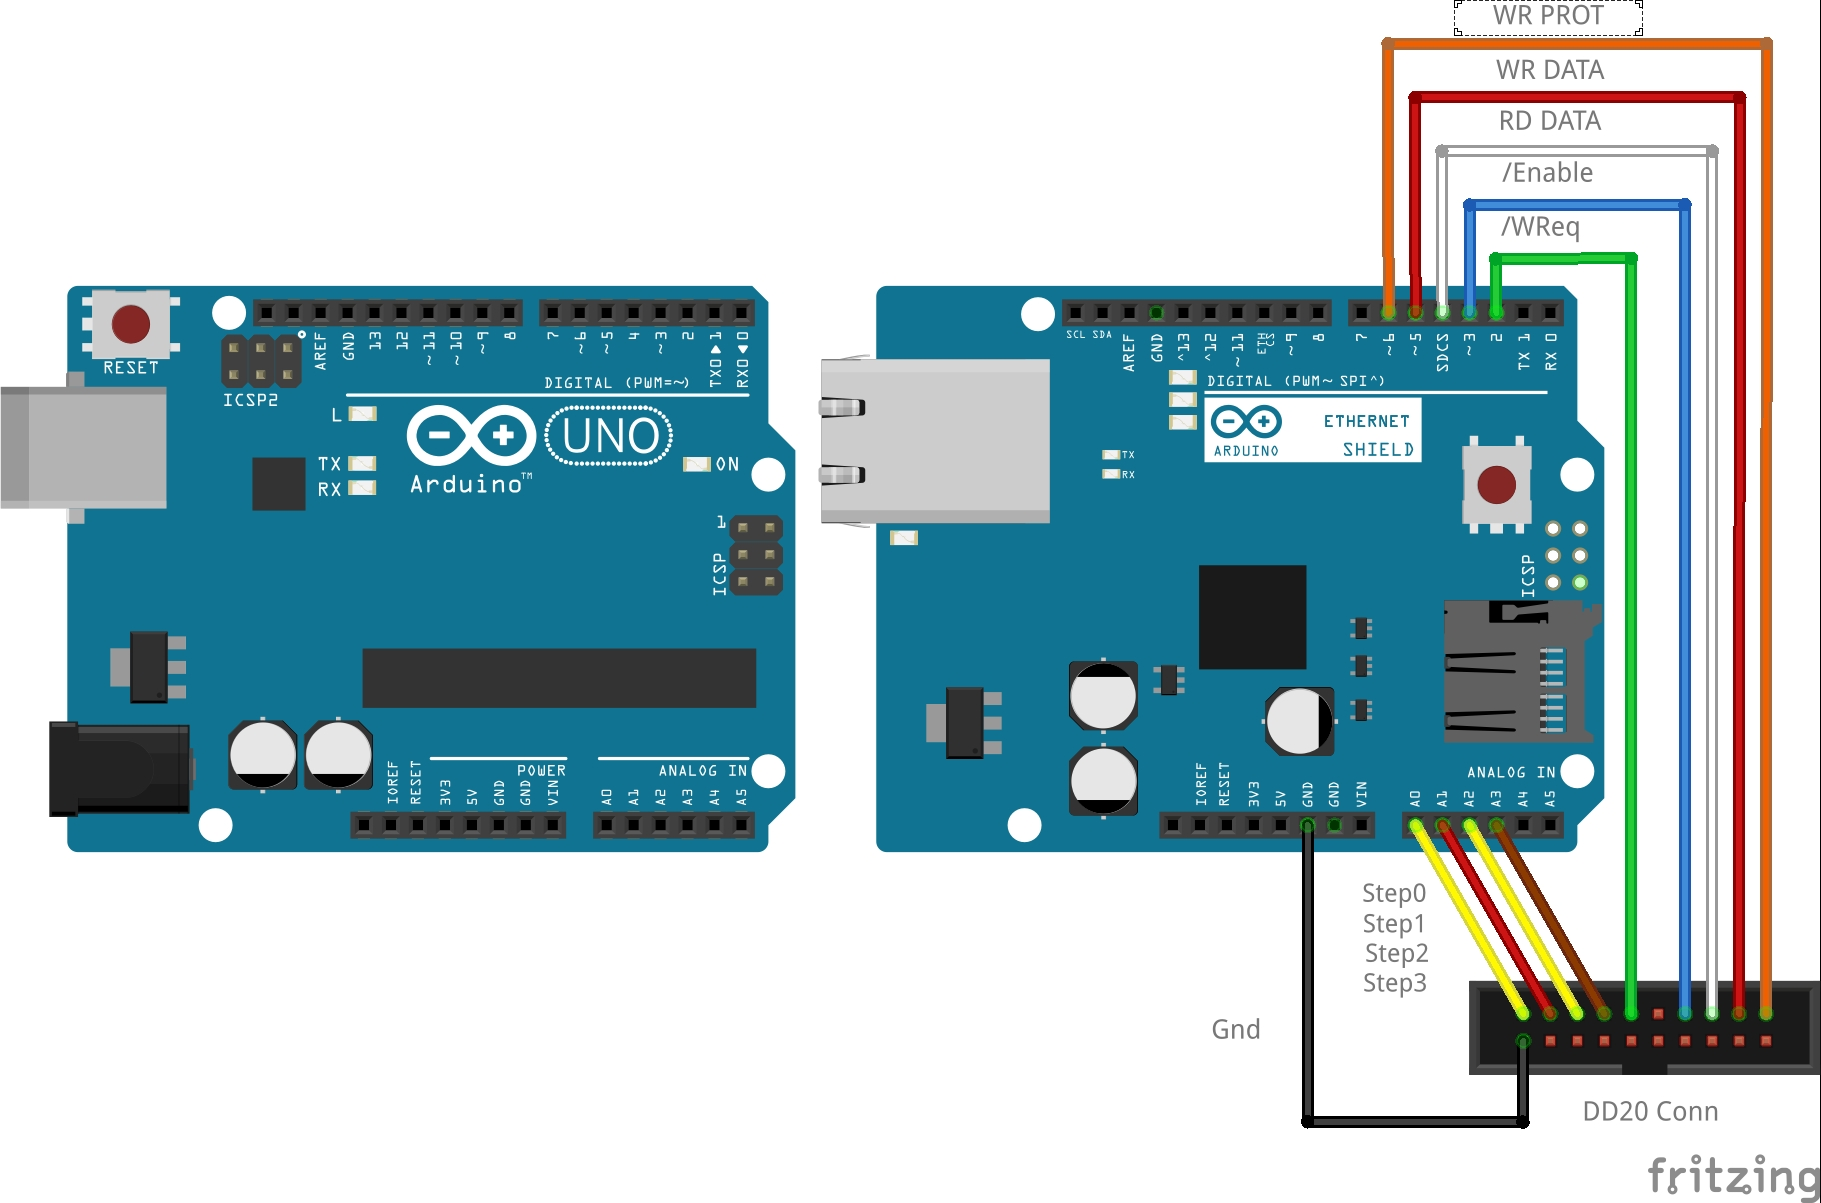
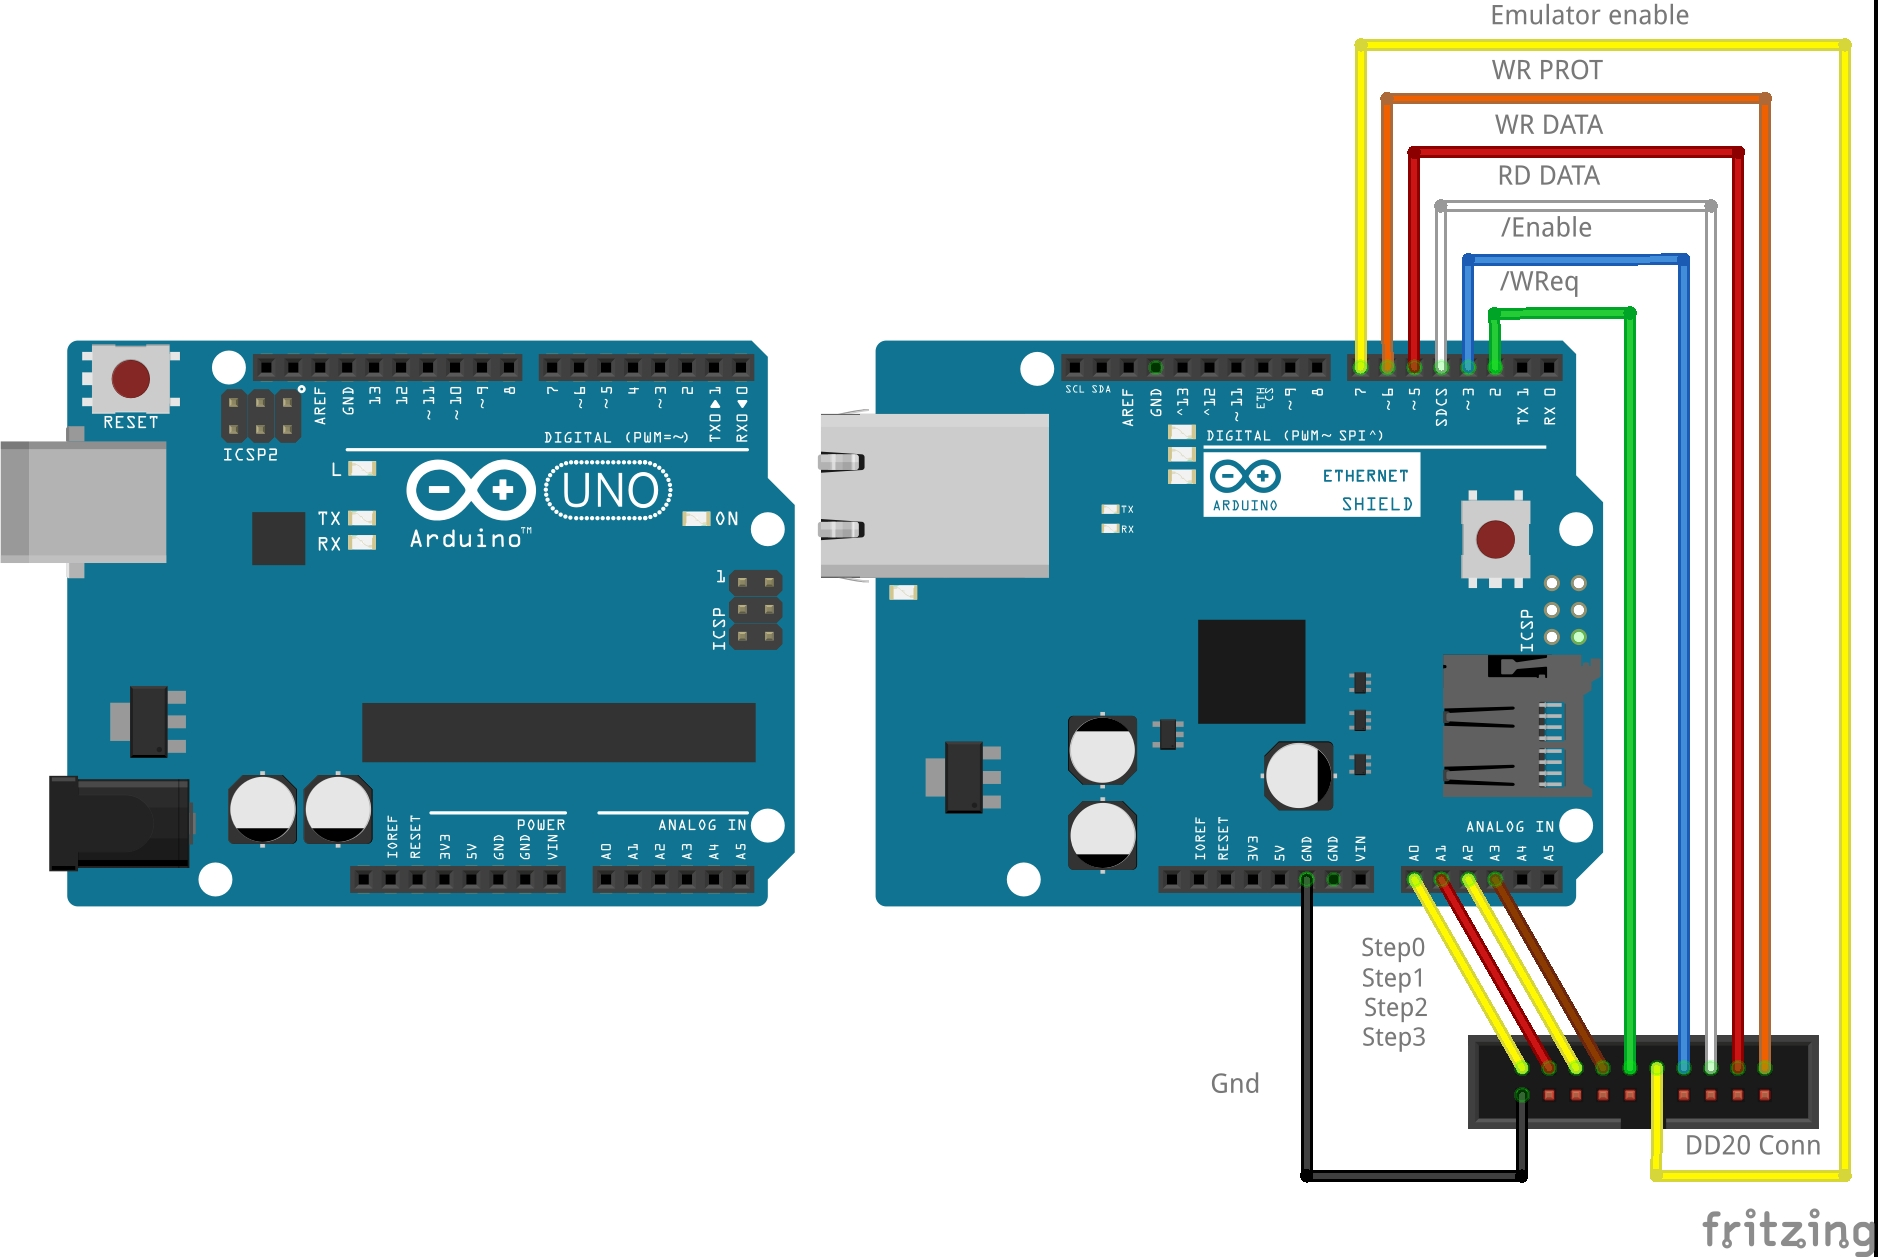
Added emulator enable detection (#36)

Changed region(s): [[0.0, 0.0, 1.0, 1.0]]

diff --git a/dd20emu/dd20emu_acl.h b/dd20emu/dd20emu_acl.h
@@ -40,6 +40,8 @@
 /*
  * Pin definitions, Arduino Uno
  * GND
+ * 7,  PD7,    Emulator enable
+ * 6,  PD6,    WR PROT
  * 5,  PD5,    WR Data
  * 4,  PD4,    RD Data
  * 3,  PD3,    /WRReq
@@ -49,6 +51,11 @@
  * A1, PC1,    Step1
  * A0, PC0,    Step0
 */
+
+/* Port and bit for Emu EN */
+#define PORT_EMUEN    PINH
+#define EMUEN_DATA_BIT 7
+const byte emuEnPin = 7;
 
 /* Port and bit for WR PROT */
 #define PORT_WRPROT   PIND   //used in dd20emu.ino
@@ -91,7 +98,9 @@ const byte stepPin0  = A0;
 /*
    Pin definitions, Arduino Mega2560
    GND
-   5,   PE3     WR Data
+   7,   PH4,    Emulator enable
+   6,   PH3,    WR PROT
+   5,   PE3,    WR Data
    4 ,  PG5,    RD Data
    3,   PE5,    /EnDrv
    2,   PE4,    /WRReq
@@ -100,6 +109,11 @@ const byte stepPin0  = A0;
    20,  PD1,    Step1
    21,  PD0,    Step0  
 */
+
+/* Port and bit for Emu EN */
+#define PORT_EMUEN    PINH
+#define EMUEN_DATA_BIT 4
+const byte emuEnPin = 7;
 
 /* Port and bit for WR PROT */
 #define PORT_WRPROT   PINH   //used in dd20emu.ino
